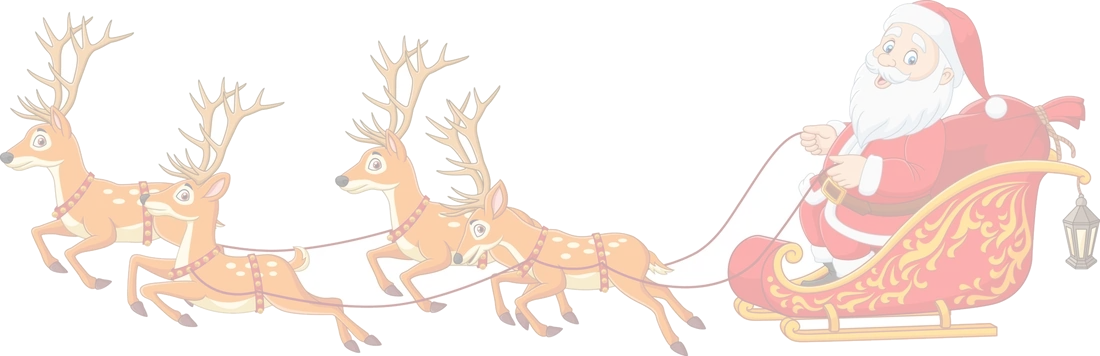
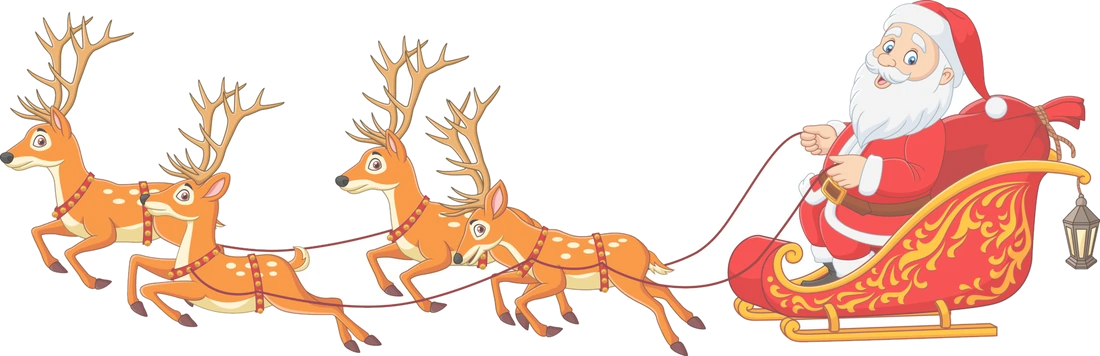
Christmas: show Santa's sleigh in full on its own strip under the wheel
Claude-Session: https://claude.ai/code/session_015FC1TYXFHdqdihHWBXQuFW

diff --git a/apps/web/src/app/global.css b/apps/web/src/app/global.css
@@ -282,11 +282,15 @@
 html[data-theme="halloween"] .decor-credit,
 html[data-theme="christmas"] .decor-credit { display: block; }
 
-/* Christmas: Santa's sleigh sits behind the lucky-wheel banner */
+/* Christmas: Santa's sleigh flies along its own strip under the lucky-wheel banner,
+   so it is shown in full instead of hiding behind the wheel. */
 html[data-theme="christmas"] #home {
   background-image: url('/assets/decor/christmas/santa.webp');
   background-repeat: no-repeat;
-  background-position: 50% 100%;
-  background-size: min(860px, 118%) auto;
+  background-position: 50% calc(100% - 16px);
+  background-size: min(560px, 92%) auto;
+  padding-bottom: 210px;
 }
-@media (min-width: 1024px) { html[data-theme="christmas"] #home { background-position: 46% 100%; } }
+@media (min-width: 1024px) {
+  html[data-theme="christmas"] #home { background-size: min(720px, 60%) auto; padding-bottom: 270px; }
+}
